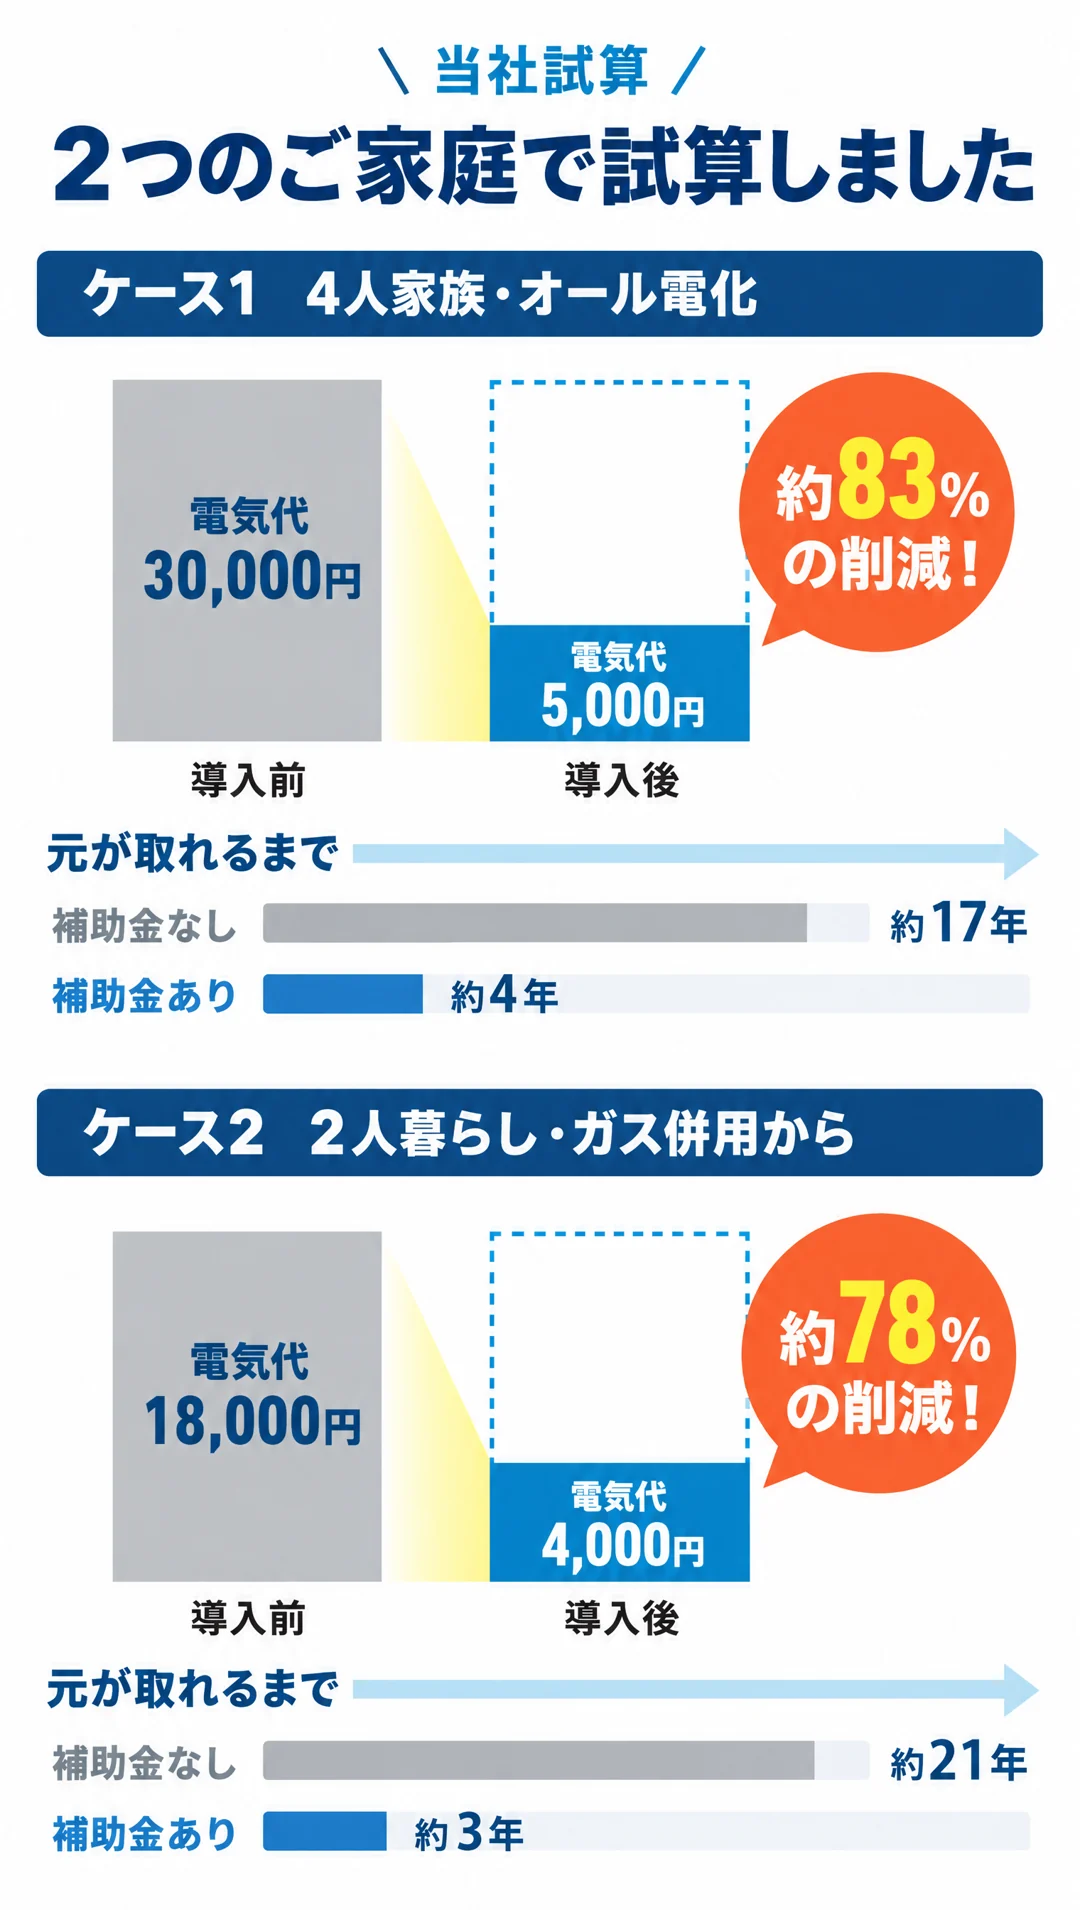
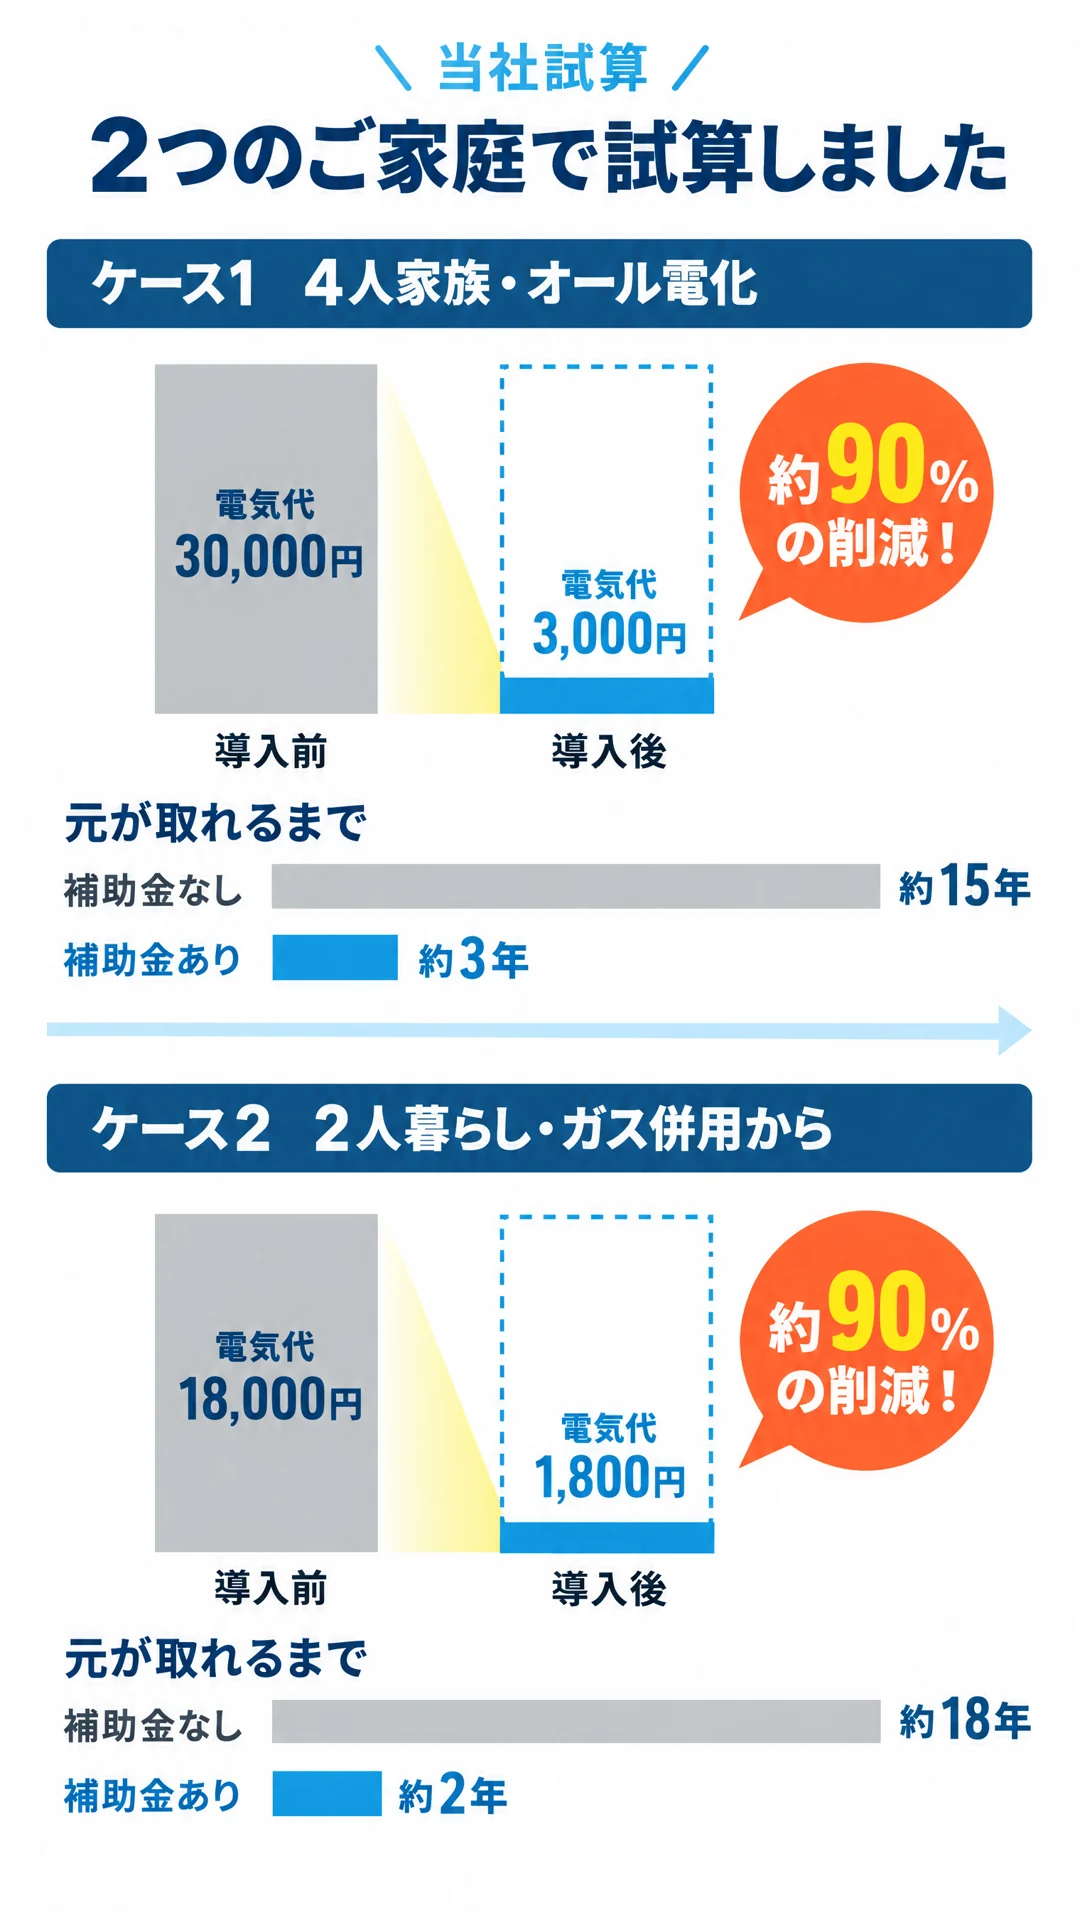
Add files via upload

Changed region(s): [[0.0306, 0.0, 0.9778, 0.9885], [0.8556, 0.6178, 0.8861, 0.6487]]

diff --git a/index.html b/index.html
@@ -468,7 +468,7 @@ footer{background:var(--navy);color:#cfdcef;text-align:center;font-size:12.5px;p
 <div id="ch4"></div>
 <img class="sx" src="I11.webp" alt="補助金は国・都道府県・市区町村の3つ重ねて使えます。申請は当社が代行します。重要なお知らせ：自治体の補助金は予算がなくなり次第、年度の途中でも受付が終わります" loading="lazy" decoding="async">
 <div class="blk"><p class="note">※国：蓄電池のDR補助金＋給湯省エネ 上限<span class="kari">74万円</span>／都道府県・市区町村 上限<span class="kari">◯万円</span>。図はイメージで、全額受け取れるとは限りません。契約・工事の前に申請が必要な制度もあります（当社は交付決定を待って着工します）</p></div>
-<img class="sx" src="I12.webp" alt="2つのご家庭で試算。ケース1 4人家族・オール電化 30,000円→5,000円（約83%削減）、元が取れるまで補助金なし約17年・補助金あり約4年。ケース2 2人暮らし・ガス併用から 18,000円→4,000円（約78%削減）、補助金なし約21年・補助金あり約3年" loading="lazy" decoding="async">
+<img class="sx" src="I12.webp" alt="2つのご家庭で試算。ケース1 4人家族・オール電化 30,000円→3,000円（約90%削減）、元が取れるまで補助金なし約15年・補助金あり約3年。ケース2 2人暮らし・ガス併用から 18,000円→1,800円（約90%削減）、補助金なし約18年・補助金あり約2年" loading="lazy" decoding="async">
 <div class="blk"><p class="note">※当社試算。実在のお客様の数値ではありません。補助金は最大額（ケース1：389万円／ケース2：307万円）を使えた場合。売電収入・値上がり・メンテナンス費は含みません</p></div>
 <section class="html-sec bg-white"><div class="wrap"><div class="hgroup" style="margin-top:52px"><span class="kicker">寿命と交換</span><h2 class="h2">何年使える？<br>交換はいつ？</h2></div>
     <div class="life">
